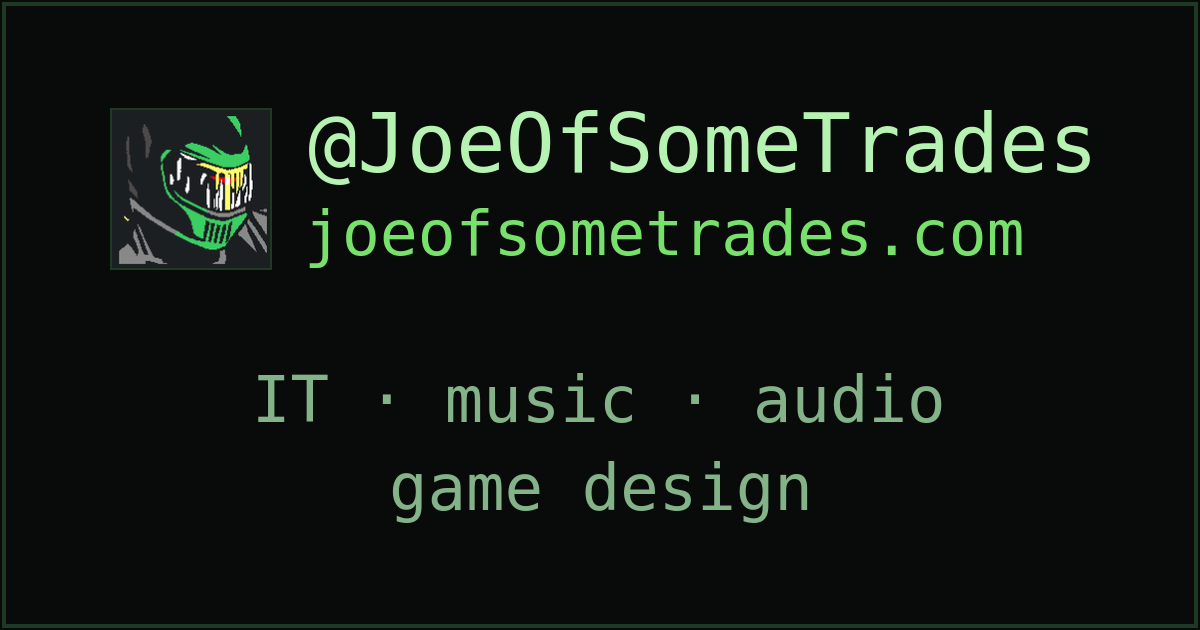
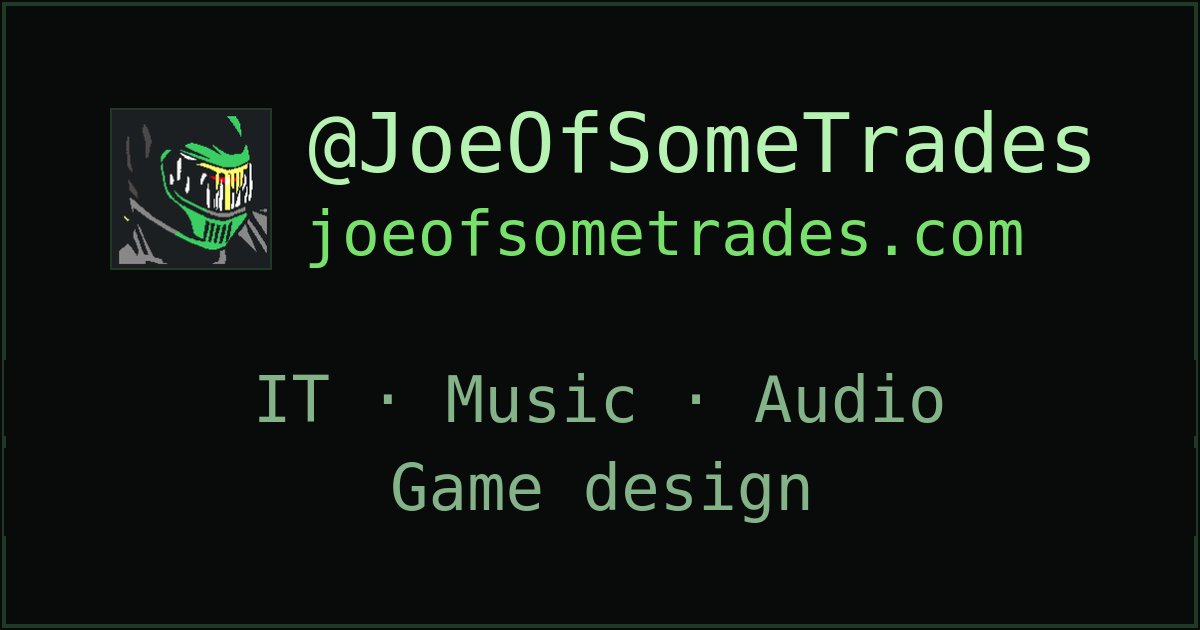
docs: retitle the site project and recase the card tagline
The project that describes this site now reads MY PORTFOLIO with the
tagline "this very website!", and the README follows with # My Portfolio.
The card's tagline now reads IT · Music · Audio and Game design.

diff --git a/src/data/projects.js b/src/data/projects.js
@@ -3,8 +3,8 @@ export const projects = [
     id: 'portfolio',
     hash: 'portfolio',
     label: 'Portfolio',
-    title: 'PORTFOLIO SITE',
-    tagline: 'the site you are reading',
+    title: 'MY PORTFOLIO',
+    tagline: 'this very website!',
     blurb:
       'This site is my professional and personal portfolio. I built it with Astro and deployed it on Cloudflare Workers with Static Assets. The source code is public on GitHub.',
     href: 'https://github.com/DecibillyJoel/portfolio',

diff --git a/README.md b/README.md
@@ -1,4 +1,4 @@
-# Portfolio Site
+# My Portfolio
 
 My personal site. It's a single page with a retro-arcade look. The About Me view lands first and holds my links, and two tabs beside it open my certifications and my projects. The projects tab embeds my Live365 radio station, Maximum Slappage, my game, Smiles Sadistic Adventure, and my SoundCloud audio, and it also describes this site itself.
 
